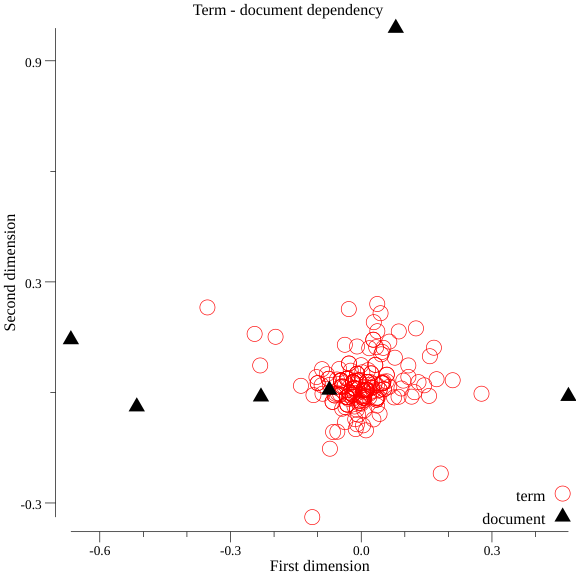
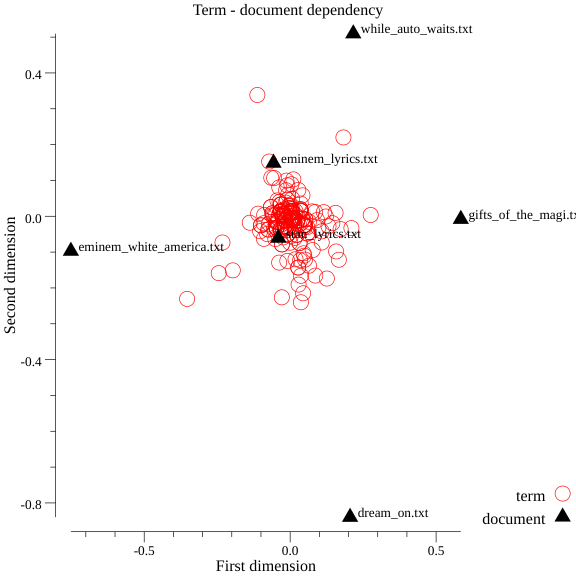
add labels of documents

diff --git a/src/lsa/plots.go b/src/lsa/plots.go
@@ -6,6 +6,7 @@ import (
 	"gonum.org/v1/plot/vg"
 	"gonum.org/v1/plot/vg/draw"
 	"image/color"
+	"path/filepath"
 )
 
 func (svd *singularValueDecomposition) createHistSvdSPlot() {
@@ -19,13 +20,13 @@ func (svd *singularValueDecomposition) createHistSvdSPlot() {
 	p.X.Label.Text = "Singular values"
 	p.Y.Label.Text = "Importance"
 
-	v := make(plotter.Values, len((*svd.dataToRender)["s_to_hist"]))
+	v := make(plotter.Values, len((*svd.dataToRender)["S_TO_HIST"]))
 
 	for i := range v {
-		v[i] = (*svd.dataToRender)["s_to_hist"][i]
+		v[i] = (*svd.dataToRender)["S_TO_HIST"][i]
 	}
 
-	h, err := plotter.NewHist(v, len((*svd.dataToRender)["s_to_hist"]))
+	h, err := plotter.NewHist(v, len((*svd.dataToRender)["S_TO_HIST"]))
 	if err != nil {
 		panic(err)
 	}
@@ -39,7 +40,7 @@ func (svd *singularValueDecomposition) createHistSvdSPlot() {
 	}
 }
 
-func (svd *singularValueDecomposition) createTermDocumentDependencyPlot() {
+func (svd *singularValueDecomposition) createTermDocumentDependencyPlot(files *[]File) {
 
 	createPoints := func(x, y []float64) plotter.XYs {
 		points := make(plotter.XYs, len(x))
@@ -60,7 +61,7 @@ func (svd *singularValueDecomposition) createTermDocumentDependencyPlot() {
 	p.X.Label.Text = "First dimension"
 	p.Y.Label.Text = "Second dimension"
 
-	t, err := plotter.NewScatter(createPoints((*svd.dataToRender)["u_to_X"], (*svd.dataToRender)["u_to_Y"]))
+	t, err := plotter.NewScatter(createPoints((*svd.dataToRender)["U_TO_X"], (*svd.dataToRender)["U_TO_Y"]))
 	if err != nil {
 		panic(err)
 	}
@@ -68,14 +69,28 @@ func (svd *singularValueDecomposition) createTermDocumentDependencyPlot() {
 	t.Radius = 2 * vg.Millimeter
 	t.Color = color.RGBA{R: 255, A:255}
 
-	d, err := plotter.NewScatter(createPoints((*svd.dataToRender)["v_to_X"], (*svd.dataToRender)["v_to_Y"]))
+	VPoints := createPoints((*svd.dataToRender)["V_TO_X"], (*svd.dataToRender)["V_TO_Y"])
+	d, err := plotter.NewScatter(VPoints)
 	if err != nil {
 		panic(err)
 	}
 	d.GlyphStyle.Shape = draw.PyramidGlyph{}
 	d.Radius = 2 * vg.Millimeter
 	d.Color = color.RGBA{R:0, A:255}
-	p.Add(t, d)
+
+	FileNames := make([]string, len(*files))
+	for i, file := range *files {
+		FileNames[i] = filepath.Base(file.filePath)
+	}
+
+	labels := plotter.XYLabels{VPoints, FileNames }
+	l, err := plotter.NewLabels(labels)
+	if err != nil {
+		panic(err)
+	}
+	l.XOffset = 2 * vg.Millimeter
+
+	p.Add(t, d, l)
 	p.Legend.Padding = 2 * vg.Millimeter
 	p.Legend.Add("term", t)
 	p.Legend.Add("document", d)

diff --git a/src/lsa/lsa.go b/src/lsa/lsa.go
@@ -42,7 +42,7 @@ func (lsa *LatentSemanticAnalysis) InvokeLsa() {
 
 	// Plotting
 	fm.SVD.createHistSvdSPlot()
-	fm.SVD.createTermDocumentDependencyPlot()
+	fm.SVD.createTermDocumentDependencyPlot(&lsa.Indexer.Files)
 }
 
 /**
@@ -267,11 +267,12 @@ func (svd *singularValueDecomposition) prepareSvdDataToRender() *map[string][]fl
 	mat.Row(secondDimRowV, secondDim, svd.V)
 
 	// Data to plot
-	dataToRender["s_to_hist"] = svdSValImportance
-	dataToRender["u_to_X"] = firstDimColU
-	dataToRender["u_to_Y"] = secondDimColU
-	dataToRender["v_to_X"] = firstDimRowV
-	dataToRender["v_to_Y"] = secondDimRowV
+	dataToRender["S_TO_HIST"] = svdSValImportance
+	// Points
+	dataToRender["U_TO_X"] = firstDimColU
+	dataToRender["U_TO_Y"] = secondDimColU
+	dataToRender["V_TO_X"] = firstDimRowV
+	dataToRender["V_TO_Y"] = secondDimRowV
 
 	return &dataToRender
 }
@@ -281,12 +282,12 @@ Calculate cos similarity between documents
  */
 func (svd *singularValueDecomposition) cosSimilarityOfDocuments() {
 
-	vectorsToSim := make([]mat.VecDense, len((*svd.dataToRender)["v_to_X"]))
-	cosSimValues := make([][]float64, len((*svd.dataToRender)["v_to_X"]))
+	vectorsToSim := make([]mat.VecDense, len((*svd.dataToRender)["V_TO_X"]))
+	cosSimValues := make([][]float64, len((*svd.dataToRender)["V_TO_X"]))
 
-	for i := 0; i < len((*svd.dataToRender)["v_to_X"]); i++ {
-		vectorsToSim[i] = *mat.NewVecDense(2, []float64{(*svd.dataToRender)["v_to_X"][i],
-			(*svd.dataToRender)["v_to_Y"][i]})
+	for i := 0; i < len((*svd.dataToRender)["V_TO_X"]); i++ {
+		vectorsToSim[i] = *mat.NewVecDense(2,
+			[]float64{ (*svd.dataToRender)["V_TO_X"][i], (*svd.dataToRender)["V_TO_Y"][i] })
 	}
 
 	for toCmp := 0; toCmp < len(vectorsToSim); toCmp++ {
@@ -302,10 +303,23 @@ func (svd *singularValueDecomposition) cosSimilarityOfDocuments() {
 					  /*norm(B)*/ math.Sqrt(mat.Dot(&vectorsToSim[vec], &vectorsToSim[vec])) )
 			}
 		}
+
 		cosSimValues[toCmp] = tmpValues
 	}
 
+	// TODO get min distances between docs and then split to folders according to this distances (cos(Theta))
 	fmt.Println(cosSimValues)
+
+	//for i := 0; i < len(cosSimValues); i++ {
+	//
+	//	minInSub := cosSimValues[0][0]
+	//
+	//	for j := 0; j < len(cosSimValues[i]); j++ {
+	//		if cosSimValues[i][j] < minInSub && cosSimValues[i][j] != 0 {
+	//			minInSub = cosSimValues[i][j]
+	//		}
+	//	}
+	//}
 }
 
 
